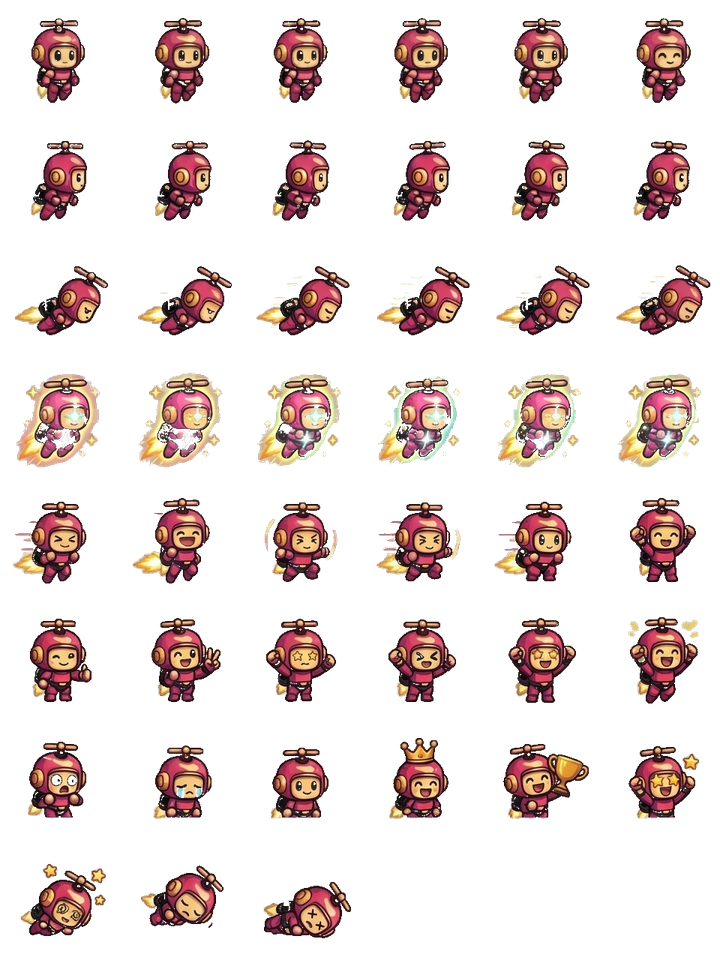
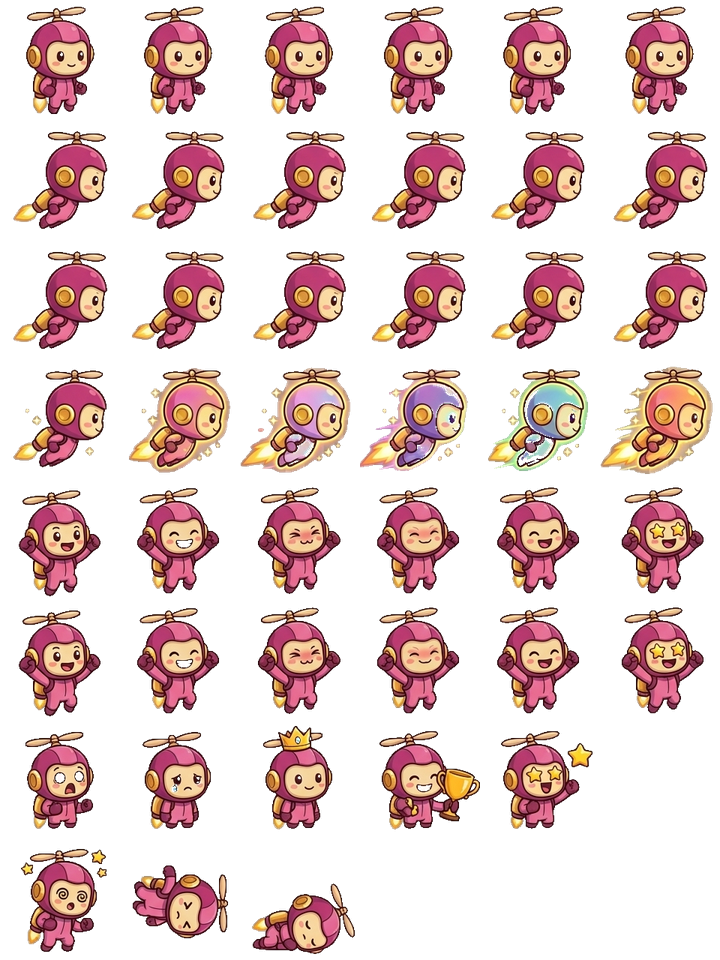
Swap in 'more rounded' character sheet (6-row source -> 6x8 grid)
New cuter/rounder base art (art-src/character/character-more-rounded.png). The
source is a 6-row sheet (HOVER, FLY, BOOST, CHEER, EMOTES, DEATH) with no
separate diving/celebration rows, so repack-character.py now maps 6 source rows
onto the game's 6x8 grid, DUPLICATING FLY -> MOVE_HARD (out r2) and CHEER ->
celebration (out r5). Row/col centres are still auto-detected.

Caption text ('HOVER/IDLE', 'FLY', ...) baked into the source is masked before
repack (near-black outside a tight saturated-body halo -> checker grey); clean
source saved as *-clean.png.

CharacterSprite CHAR_FRAMES reordered to the new 5-emote row (dropped unused
'happy'): startled 36, sad 37, crown 38, trophy 39, star 40. All refs use named
constants so they follow automatically. Anim frame ranges unchanged.

Build + PlayerFacing test green.

diff --git a/src/config/CharacterSprite.ts b/src/config/CharacterSprite.ts
@@ -8,14 +8,17 @@
  *
  * The base sheet is re-packed by `scripts/repack-character.py` into a clean 6x8
  * grid at `public/assets/character.png` (120px cells — rendered ~1:1 so it stays
- * crisp against the detailed background). Frame map (index = row*6 + col):
+ * crisp against the detailed background). The source art has 6 rows (HOVER, FLY,
+ * BOOST, CHEER, EMOTES, DEATH); the repack DUPLICATES the single FLY row into
+ * rows 1+2 and the single CHEER row into rows 4+5 so the 6x8 layout below holds.
+ * Frame map (index = row*6 + col):
  *   row 0 (0-5)   hover (front)             -> not steering (alive float)
- *   row 1 (6-11)  side flight, calm         -> moving, low effort
- *   row 2 (12-17) side flight, diving        -> moving held, high effort
+ *   row 1 (6-11)  side flight               -> moving, low effort
+ *   row 2 (12-17) side flight (dup of row 1) -> moving held, high effort
  *   row 3 (18-23) star-power boost + aura    -> golden score boost (invincible)
- *   row 4 (24-29) cheer, fists (side)        -> spare celebration
- *   row 5 (30-35) celebration gestures       -> combo cheer flash
- *   row 6 (36-41) startled, sad, happy, crown, trophy, star
+ *   row 4 (24-29) cheer, arms up             -> spare celebration
+ *   row 5 (30-35) cheer, arms up (dup)       -> combo cheer flash
+ *   row 6 (36-40) startled, sad, crown, trophy, star
  *   row 7 (42-44) knockout: stars, tumble, KO -> death anim (base only)
  * The fly art faces LEFT, so we mirror (flipX) when moving right — see Player +
  * PlayerFacing. Skins remain 6x7 (no row 7); the death anim is base-only and
@@ -45,10 +48,9 @@ export const ANIM_KEYS = {
 export const CHAR_FRAMES = {
   startled: 36, // surprised — hit / impact startle
   sad: 37, // crying — game-over loss & death fallback
-  happy: 38, // calm happy — spare portrait
-  crown: 39, // crown — new record / win
-  trophy: 40, // holding a trophy — achievement icon
-  star: 41 // star-struck — high-combo icon
+  crown: 38, // crown — new record / win
+  trophy: 39, // holding a trophy — achievement icon
+  star: 40 // star-struck — high-combo icon
 } as const;
 
 /** Numbered combo-badge frames flashed on the hero (row 5, x2..x20). */

diff --git a/scripts/repack-character.py b/scripts/repack-character.py
@@ -277,16 +277,30 @@ def main():
 
     # Detect the REAL character centres per row/col. The source has caption text
     # bands between rows that shift them down irregularly, so a uniform H/ROWS
-    # grid clips the legs and lets the row above bleed in. Fall back to the old
-    # uniform grid only if detection doesn't find the expected 6x8 layout.
+    # grid clips the legs and lets the row above bleed in.
+    #
+    # The game always ships a 6x8 (48-frame) grid so the skins + AnimationManager
+    # stay stable, but the source art comes in two shapes:
+    #   * 8-row sheet -> map straight through (row_map = identity).
+    #   * 6-row sheet (HOVER, FLY, BOOST, CHEER, EMOTES, DEATH) -> there is no
+    #     separate "diving" flight row nor a front-celebration row, so we DUPLICATE
+    #     FLY into MOVE_HARD (out r2) and CHEER into the celebration row (out r5):
+    #       out row: 0     1    2    3      4      5      6       7
+    #       src row: HOVER FLY  FLY  BOOST  CHEER  CHEER  EMOTES  DEATH
     row_c, col_c = detect_centers(arr)
-    if len(col_c) != COLS or len(row_c) != ROWS:
+    if len(col_c) == COLS and len(row_c) == ROWS:
+        row_map = list(range(ROWS))
+    elif len(col_c) == COLS and len(row_c) == 6:
+        row_map = [0, 1, 1, 2, 3, 3, 4, 5]
+    else:
         print(f"WARN detect found {len(col_c)} cols / {len(row_c)} rows; "
-              f"falling back to uniform grid")
+              f"falling back to uniform 6x8 grid")
         col_c = [round(c * cw) + 75 for c in range(COLS)]
         row_c = [round(r * (H / ROWS)) + 49 for r in range(ROWS)]
+        row_map = list(range(ROWS))
     print("col centres", col_c)
     print("row centres", row_c)
+    print("row map (out<-src)", row_map)
 
     # 160px capture window scaled 0.75x into the 120px grid, centred on each
     # detected character so the propeller (top) and legs (bottom) both fit.
@@ -296,7 +310,7 @@ def main():
     for r in range(ROWS):
         for c in range(COLS):
             cx = col_c[c]
-            cy = row_c[r]
+            cy = row_c[row_map[r]]
 
             # extract with padding if out of bounds. Pad with checkerboard grey (78)
             # so the edge-flood-fill correctly removes the padding instead of 